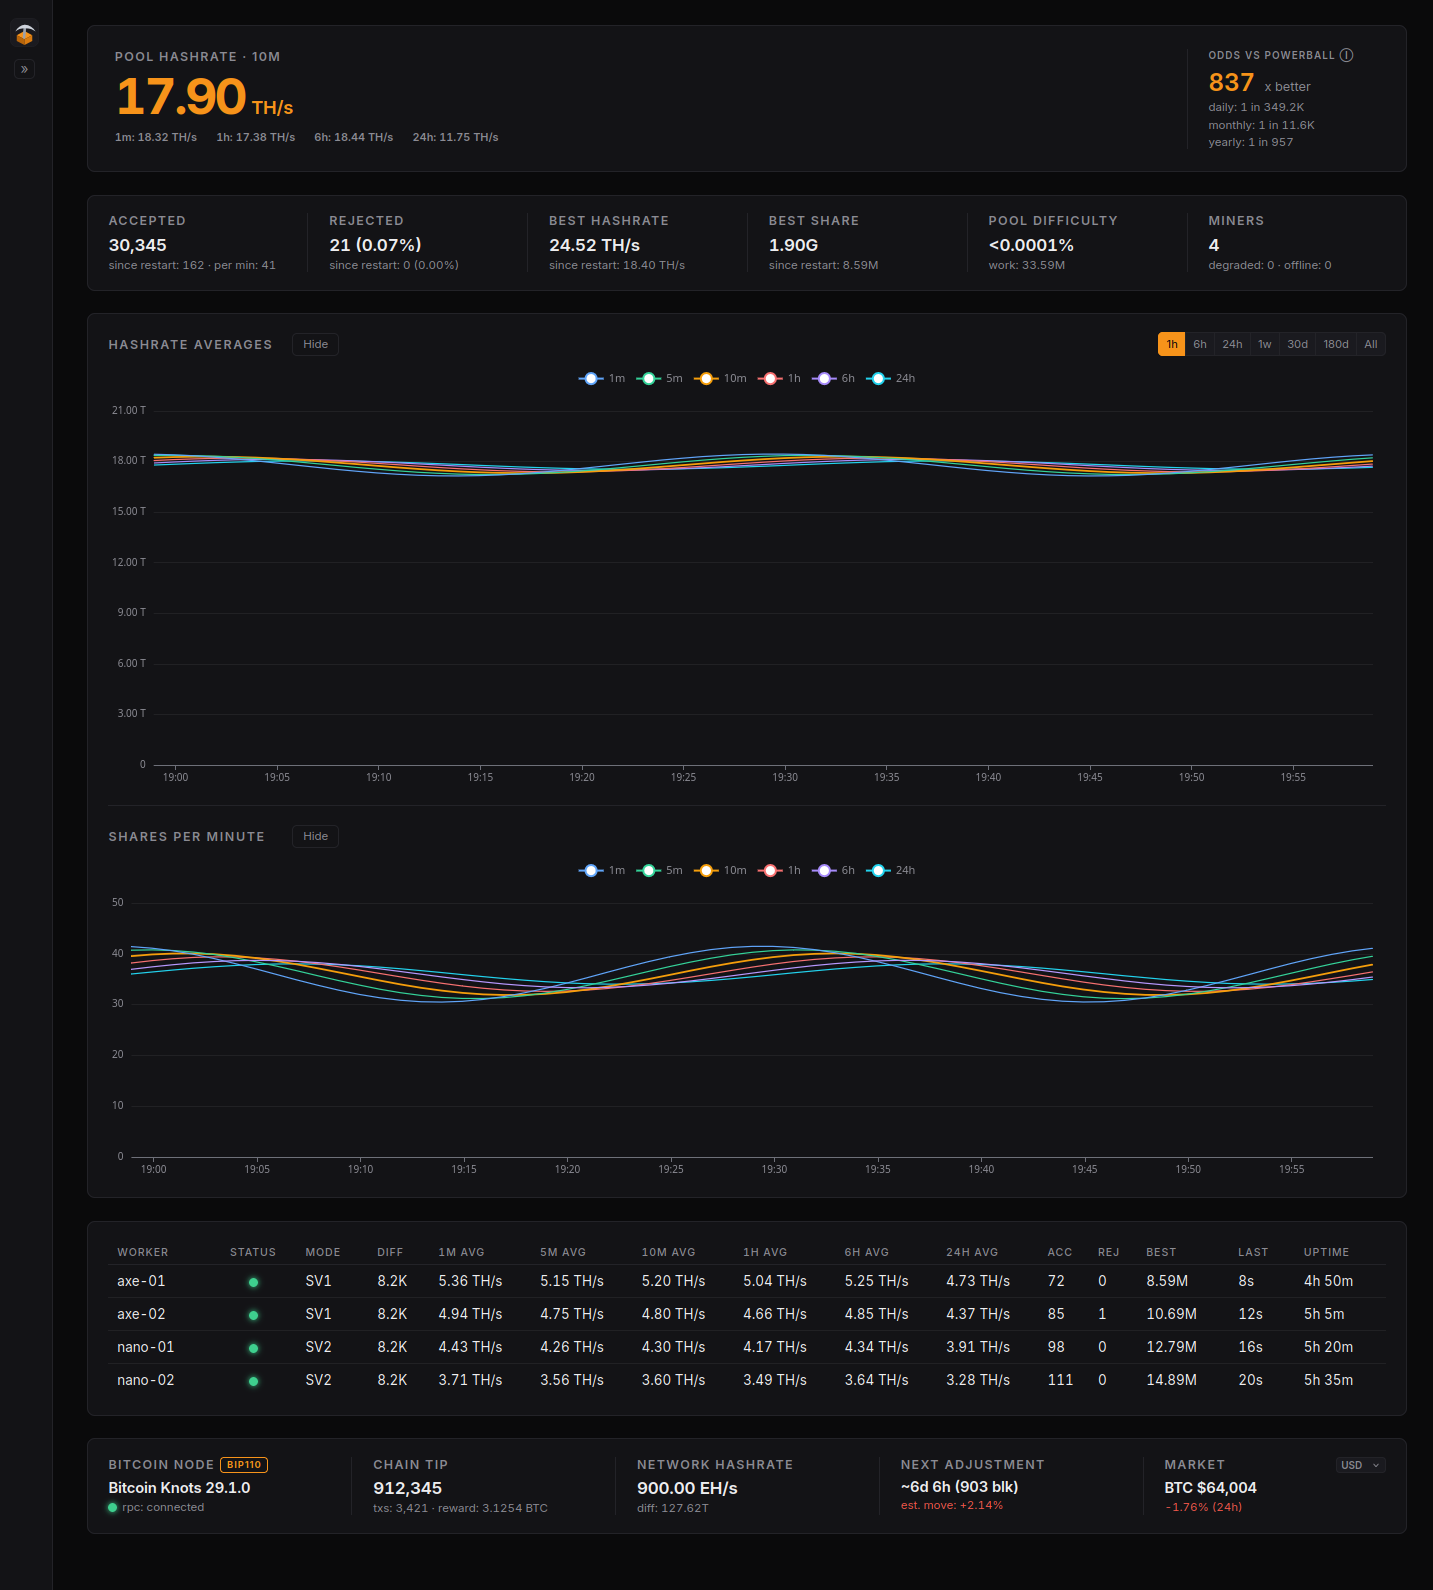
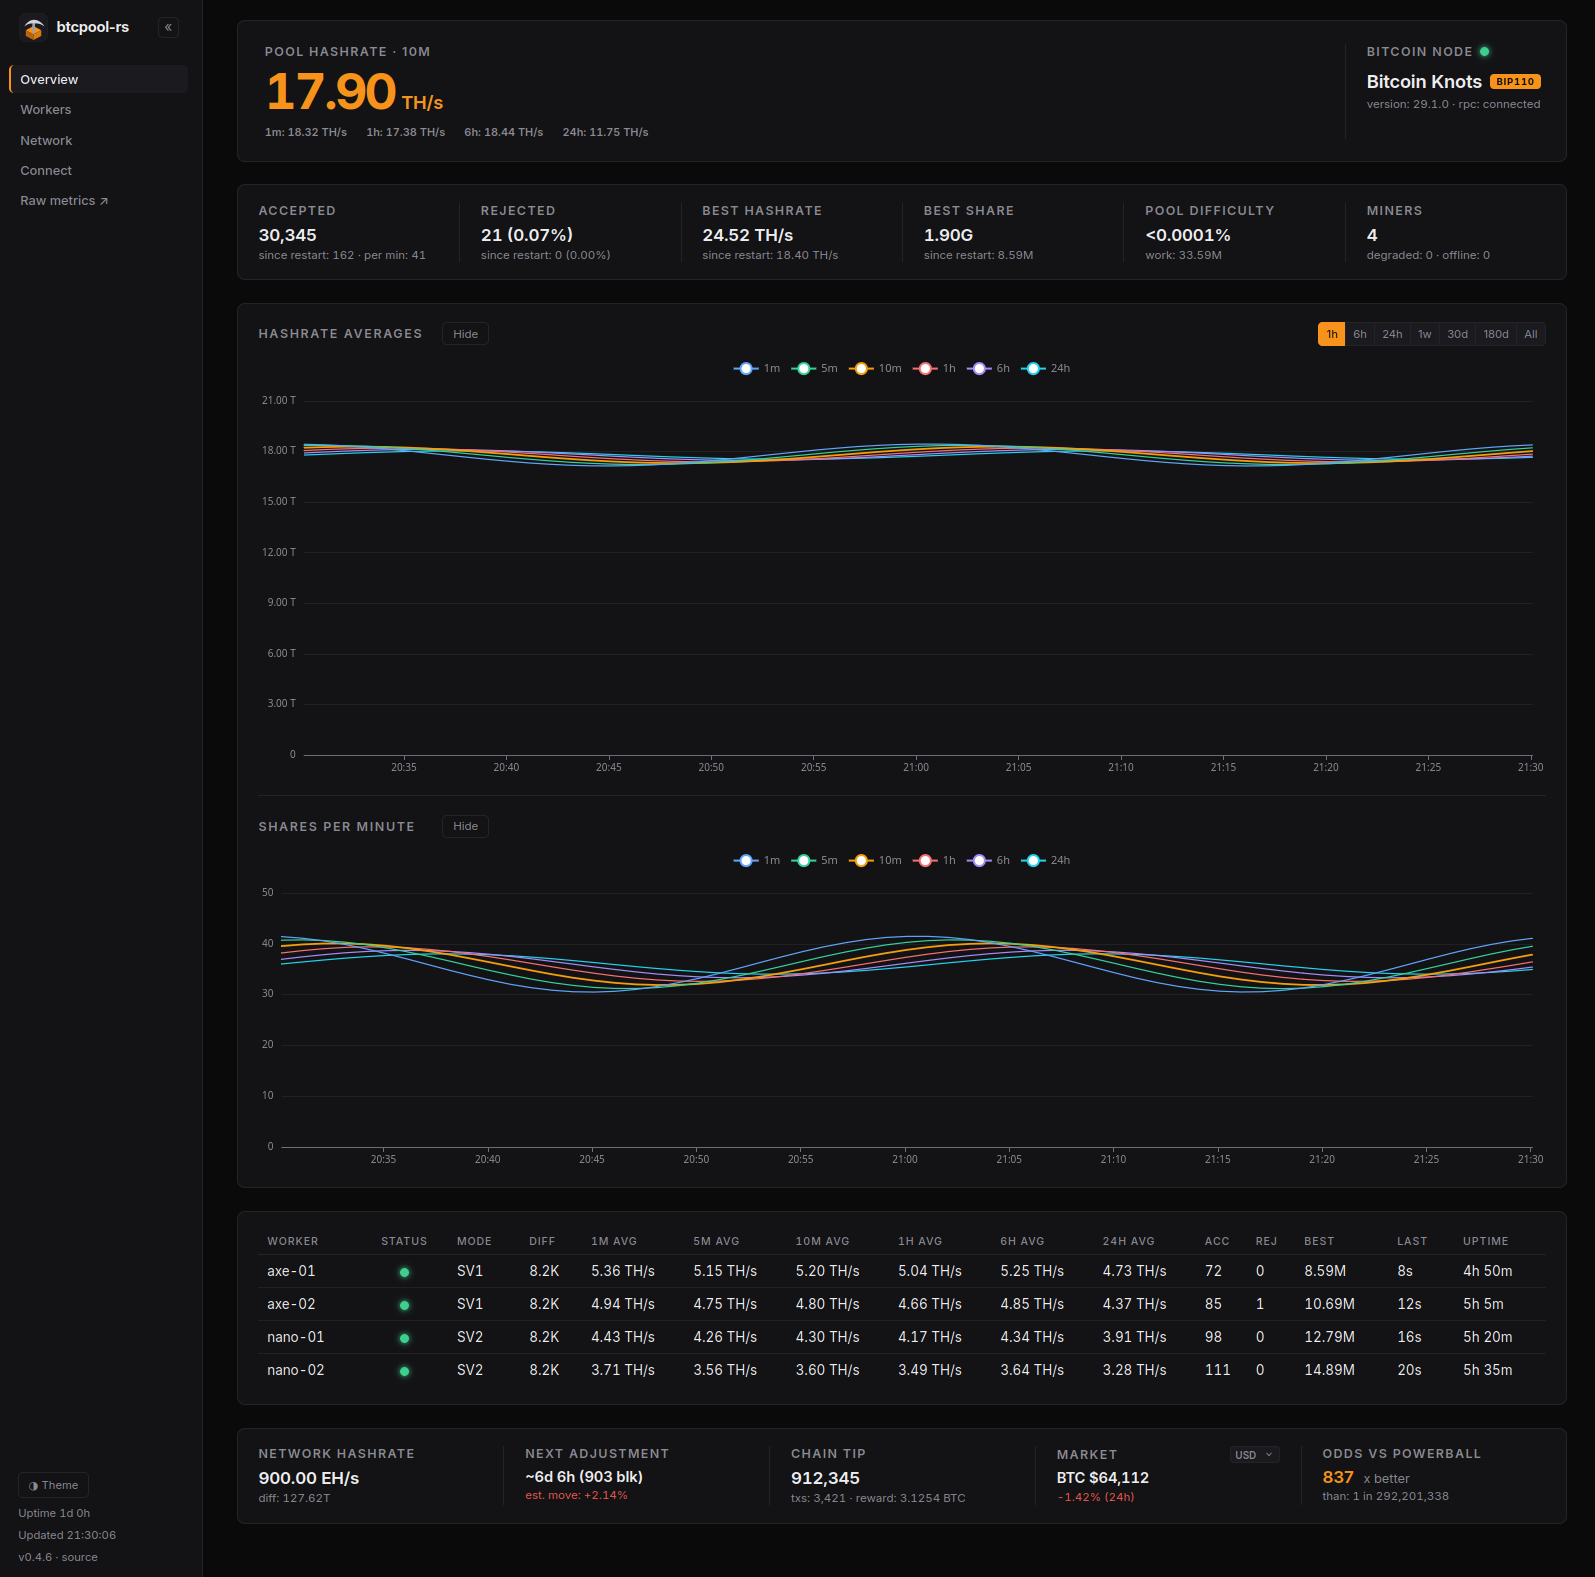
feat(dashboard): swap node and odds cards, restructure node card layout

diff --git a/src/network/dashboard.rs b/src/network/dashboard.rs
@@ -711,10 +711,18 @@ section { margin-bottom: 1.4rem; scroll-margin-top: 1.2rem; }
   gap: 0.32rem; padding: 0 1.3rem; border-left: 1px solid var(--border);
   font-size: 0.78rem; font-variant-numeric: tabular-nums;
 }
+/* Node identity in the hero's side column: the KPI val/sub pair, restated
+   here because those rules are scoped to .kpi. */
+.hero-node {
+  display: flex; align-items: center; flex-wrap: wrap; gap: 0.25rem 0.5rem;
+  font-size: 1.15rem; font-weight: 650; letter-spacing: -0.01em;
+}
+.hero-node-rpc { font-size: 0.72rem; color: var(--muted); }
 .odds-primary { display: flex; flex-wrap: wrap; align-items: baseline; gap: 0.15rem 0.45rem; cursor: help; }
 .odds-value { padding-right: 0.15rem; font-size: 1.5rem; font-weight: 650; line-height: 1.1; color: var(--accent); }
+/* Sized to its row-mates now that the card lives in the network strip. */
+.kpi .odds-value { font-size: 1.06rem; }
 .odds-comparison { font-size: 0.8rem; color: var(--muted); }
-.odds-periods { display: flex; flex-direction: column; gap: 0.2rem; color: var(--muted); font-size: 0.72rem; }
 
 /* ── KPI strip ── */
 .kpis {
@@ -727,16 +735,17 @@ section { margin-bottom: 1.4rem; scroll-margin-top: 1.2rem; }
 .kpi .val { font-size: 1.06rem; font-weight: 650; letter-spacing: -0.01em; font-variant-numeric: tabular-nums; }
 .kpi .sub { font-size: 0.72rem; color: var(--muted); margin-top: 0.15rem; font-variant-numeric: tabular-nums; }
 .kpi .sub.trunc { overflow: hidden; text-overflow: ellipsis; white-space: nowrap; }
-/* BIP signal tags on the Bitcoin-node KPI, riding the card's title row —
-   present only while the node's templates signal the bit, with the
-   version-bit detail in each tag's tooltip. The row wraps, so a crowd of
-   signal tags flows onto following lines instead of clipping. */
-.kpi .label.with-tags { display: flex; align-items: center; flex-wrap: wrap; gap: 0.25rem 0.35rem; }
+/* BIP signal tags beside the node name — present only while the node's
+   templates signal the bit, with the version-bit detail in each tag's
+   tooltip. The row wraps, so a crowd of signal tags flows onto following
+   lines instead of clipping. Filled rather than outlined: at this size a
+   1px outline reads as noise where a solid chip reads as a badge. */
+.label.with-tags { display: flex; align-items: center; flex-wrap: wrap; gap: 0.25rem 0.4rem; }
 #v-node-bips { display: inline-flex; align-items: center; flex-wrap: wrap; gap: 0.25rem 0.35rem; }
 .bip-tag {
   display: inline-block; font-size: 0.58rem; font-weight: 700; text-transform: uppercase;
-  letter-spacing: 0.1em; color: var(--accent); border: 1px solid var(--accent);
-  border-radius: 4px; padding: 0.1rem 0.35rem; cursor: help;
+  letter-spacing: 0.1em; color: var(--bg); background: var(--accent);
+  border-radius: 4px; padding: 0.12rem 0.4rem; cursor: help;
 }
 .ok  { color: var(--ok); }
 .bad { color: var(--bad); }
@@ -999,16 +1008,9 @@ tr:last-child td { border-bottom: none; }
       <div class="hero-sub"><span id="v-reported-1m">1m: &mdash;</span><span id="v-reported-1h">1h: &mdash;</span><span id="v-reported-6h">6h: &mdash;</span><span id="v-reported-24h">24h: &mdash;</span></div>
     </div>
     <div class="hero-side">
-      <div class="label">Odds vs Powerball</div>
-      <div class="odds-primary" id="powerball-odds-info">
-        <span class="odds-value" id="v-prob-powerball">&mdash;</span>
-        <span class="odds-comparison" id="v-prob-powerball-copy">x better</span>
-      </div>
-      <div class="odds-periods">
-        <span id="v-prob-daily">daily: &mdash;</span>
-        <span id="v-prob-monthly">monthly: &mdash;</span>
-        <span id="v-prob-yearly">yearly: &mdash;</span>
-      </div>
+      <div class="label with-tags">Bitcoin node<span id="v-node-rpc-led" class="led led-off"></span></div>
+      <div class="hero-node"><span id="v-node">&mdash;</span><span id="v-node-bips"></span></div>
+      <div class="hero-node-rpc">version: <span id="v-node-version">&mdash;</span> &middot; <span id="v-node-rpc-text" style="cursor:help;">rpc: &mdash;</span></div>
     </div>
   </div>
 
@@ -1036,8 +1038,8 @@ tr:last-child td { border-bottom: none; }
     </div>
     <div class="kpi">
       <div class="label">Pool difficulty</div>
-      <div class="val" id="v-pool-diff" title="Accepted share work since the pool's last found block, as a share of the current network difficulty. 100% is one expected block's worth of work.">&mdash;</div>
-      <div class="sub" id="v-pool-diff-work" title="Accepted share difficulty accumulated since the last found block; finding a block starts it over">work: &mdash;</div>
+      <div class="val" id="v-pool-diff" title="100% is one block's worth of expected work">&mdash;</div>
+      <div class="sub" id="v-pool-diff-work" title="Accepted share difficulty accumulated since the last found block">work: &mdash;</div>
     </div>
     <div class="kpi">
       <div class="label">Miners</div>
@@ -1085,8 +1087,8 @@ tr:last-child td { border-bottom: none; }
         <th class="col-rate" title="1-hour average hashrate" aria-label="1-hour average hashrate">1h Avg</th>
         <th class="col-rate" title="6-hour average hashrate" aria-label="6-hour average hashrate">6h Avg</th>
         <th class="col-rate" title="24-hour average hashrate" aria-label="24-hour average hashrate">24h Avg</th>
-        <th class="col-count" title="Accepted shares" aria-label="Accepted shares">Acc</th>
-        <th class="col-count" title="Rejected shares" aria-label="Rejected shares">Rej</th>
+        <th class="col-count" title="Accepted shares" aria-label="Accepted shares">Accept</th>
+        <th class="col-count" title="Rejected shares" aria-label="Rejected shares">Reject</th>
         <th>Best</th>
         <th>Last</th>
         <th>Uptime</th>
@@ -1103,16 +1105,6 @@ tr:last-child td { border-bottom: none; }
   <div class="kpis">
     <div class="kpi-grid">
     <div class="kpi">
-      <div class="label with-tags">Bitcoin node<span id="v-node-bips"></span></div>
-      <div class="val" id="v-node" style="font-size:0.92rem;">&mdash;</div>
-      <div class="sub" id="v-node-rpc" style="cursor:help;"><span id="v-node-rpc-led" class="led led-off" style="margin-right:0.3rem;"></span><span id="v-node-rpc-text">rpc: &mdash;</span></div>
-    </div>
-    <div class="kpi">
-      <div class="label">Chain tip</div>
-      <div class="val" id="v-height" title="Height of current best chain tip">&mdash;</div>
-      <div class="sub"><span id="v-block-transaction-count">txs: &mdash;</span> &middot; <span id="v-block-reward" style="cursor:help;">reward: &mdash;</span></div>
-    </div>
-    <div class="kpi">
       <div class="label">Network hashrate</div>
       <div class="val" id="v-net-hashrate">&mdash;</div>
       <div class="sub" id="v-net-diff">diff: &mdash;</div>
@@ -1121,6 +1113,11 @@ tr:last-child td { border-bottom: none; }
       <div class="label">Next adjustment</div>
       <div class="val" id="v-net-next-adj" style="font-size:0.92rem;" title="Estimated time until the next difficulty adjustment (2016-block epochs, ~10 min/block)">&mdash;</div>
       <div class="sub" id="v-net-adj-pct" title="Estimated difficulty change at the next retarget, from actual block timestamps in the current 2016-block epoch. Clamped to the protocol's [-75%, +300%] range.">est. move: &mdash;</div>
+    </div>
+    <div class="kpi">
+      <div class="label">Chain tip</div>
+      <div class="val" id="v-height" title="Height of current best chain tip">&mdash;</div>
+      <div class="sub"><span id="v-block-transaction-count">txs: &mdash;</span> &middot; <span id="v-block-reward" style="cursor:help;">reward: &mdash;</span></div>
     </div>
     <div class="kpi">
       <div class="label" style="display:flex; justify-content:space-between; align-items:center;">Market
@@ -1136,6 +1133,14 @@ tr:last-child td { border-bottom: none; }
       </div>
       <div class="val" id="v-btc-price" style="font-size:0.92rem;">BTC <span id="v-btc-price-num">&mdash;</span></div>
       <div class="sub" id="v-btc-change">24h: &mdash;</div>
+    </div>
+    <div class="kpi">
+      <div class="label">Odds vs Powerball</div>
+      <div class="odds-primary" id="powerball-odds-info">
+        <span class="odds-value" id="v-prob-powerball">&mdash;</span>
+        <span class="odds-comparison" id="v-prob-powerball-copy">x better</span>
+      </div>
+      <div class="sub" id="v-prob-baseline">than: 1 in &mdash;</div>
     </div>
     </div>
   </div>
@@ -1520,10 +1525,11 @@ const KNOWN_BIPS = [{ bit: 4, name: 'BIP110', desc: 'RDTS' }];
 // block version from the node, so signaling is the node's decision, not the
 // pool's.
 function renderNodeCard(d) {
+  // Name leads; the version rides the secondary line with the RPC status.
   const nodeEl = document.getElementById('v-node');
-  const nodeText = ((d.node_implementation || '') + ' ' + (d.node_version || '')).trim();
-  nodeEl.textContent = nodeText || '—';
-  nodeEl.title = nodeText ? 'User agent: ' + d.node_subversion : '';
+  nodeEl.textContent = d.node_implementation || '—';
+  nodeEl.title = d.node_implementation ? 'User agent: ' + d.node_subversion : '';
+  document.getElementById('v-node-version').textContent = d.node_version || '—';
 
   // Signal tags ride the title row, one per version bit the node's templates
   // actually set — a bit KNOWN_BIPS can name gets its BIP tag, any other a
@@ -1571,9 +1577,13 @@ function renderNodeCard(d) {
     led = 'led-on'; text = 'rpc: connected';
     title = 'Node RPC healthy — last successful poll ' + (age > 0 ? fmtUptime(age) + ' ago' : 'just now');
   }
-  document.getElementById('v-node-rpc-led').className = 'led ' + led;
-  document.getElementById('v-node-rpc-text').textContent = text;
-  document.getElementById('v-node-rpc').title = title;
+  // The pip sits in the card title, so it carries the status tooltip too.
+  const ledEl = document.getElementById('v-node-rpc-led');
+  ledEl.className = 'led ' + led;
+  ledEl.title = title;
+  const rpcTextEl = document.getElementById('v-node-rpc-text');
+  rpcTextEl.textContent = text;
+  rpcTextEl.title = title;
 }
 
 // ── Chart ────────────────────────────────────────────────────────────────────
@@ -1879,18 +1889,17 @@ function fmtOdds(p) {
 }
 
 const POWERBALL_JACKPOT_ODDS = 292201338;
-// On the figure itself rather than an icon beside the title.
-document.getElementById('powerball-odds-info').title =
-  'Powerball jackpot odds: 1 in ' + POWERBALL_JACKPOT_ODDS.toLocaleString();
+// The card carries the flat jackpot odds it compares against; the per-period
+// chances of finding a block ride the hover, where they cost no height.
+const POWERBALL_ODDS_TEXT = 'than: 1 in ' + POWERBALL_JACKPOT_ODDS.toLocaleString();
+document.getElementById('v-prob-baseline').textContent = POWERBALL_ODDS_TEXT;
 
 function updateProbability(ourHps, netHps) {
   const el = id => document.getElementById(id);
   if (!ourHps || !netHps || netHps === 0) {
-    el('v-prob-daily').textContent   = 'daily: —';
-    el('v-prob-monthly').textContent = 'monthly: —';
-    el('v-prob-yearly').textContent  = 'yearly: —';
     el('v-prob-powerball').textContent = '—';
     el('v-prob-powerball-copy').textContent = 'x better';
+    el('powerball-odds-info').title = 'No hashrate reported yet';
     return;
   }
   // Probability of finding a block per block (~10 min)
@@ -1909,9 +1918,10 @@ function updateProbability(ourHps, netHps) {
   const multiplier = better ? ratio : 1 / ratio;
   const multiplierText = multiplier >= 100 ? Math.round(multiplier).toLocaleString() : multiplier.toFixed(1);
 
-  el('v-prob-daily').textContent   = 'daily: '   + fmtOdds(pDaily);
-  el('v-prob-monthly').textContent = 'monthly: ' + fmtOdds(pMonthly);
-  el('v-prob-yearly').textContent  = 'yearly: '  + fmtOdds(pYearly);
+  el('powerball-odds-info').title =
+    'daily: '       + fmtOdds(pDaily)
+    + '\nmonthly: ' + fmtOdds(pMonthly)
+    + '\nyearly: '  + fmtOdds(pYearly);
   el('v-prob-powerball').textContent = multiplierText;
   el('v-prob-powerball-copy').textContent = better ? 'x better' : 'x worse';
 }

diff --git a/CHANGELOG.md b/CHANGELOG.md
@@ -10,10 +10,23 @@ everything else bumps the **patch** version.
 ## [Unreleased]
 
 ### Changed
-- **The Odds vs Powerball card reads as a peer of the hero.** Its title now
-  matches the other card titles and sits on the same line as the pool
-  hashrate title, and the jackpot-odds tooltip moved from a `?` icon beside
-  that title onto the odds figure itself.
+- **The Bitcoin node card and Odds vs Powerball traded places.** Node
+  identity now sits beside the pool hashrate in the hero, and the odds card
+  joined the network row, which reads network hashrate, next adjustment,
+  chain tip, market, odds.
+- **The Bitcoin node card was restructured.** RPC status is a pip in the
+  card title, the implementation name leads with its BIP signal tags beside
+  it, and the version shares one secondary line with the RPC state
+  (`version: 29.1.0 · rpc: connected`). Signal tags render as filled chips
+  rather than outlines.
+- **The odds card shows the flat Powerball jackpot odds** as its secondary
+  line; the per-period chances of finding a block (daily, monthly, yearly)
+  moved onto the hover, which also keeps the card the same height as its
+  row-mates.
+- **Shorter tooltips.** Pool difficulty reads "100% is one block's worth of
+  expected work", its work figure drops the trailing clause, and the odds
+  hover lists the periods without a lead-in.
+- **The workers table reads Accept / Reject** rather than Acc / Rej.
 
 ### Fixed
 - **The hero hashrate could break its unit across lines**, rendering `TH/`
